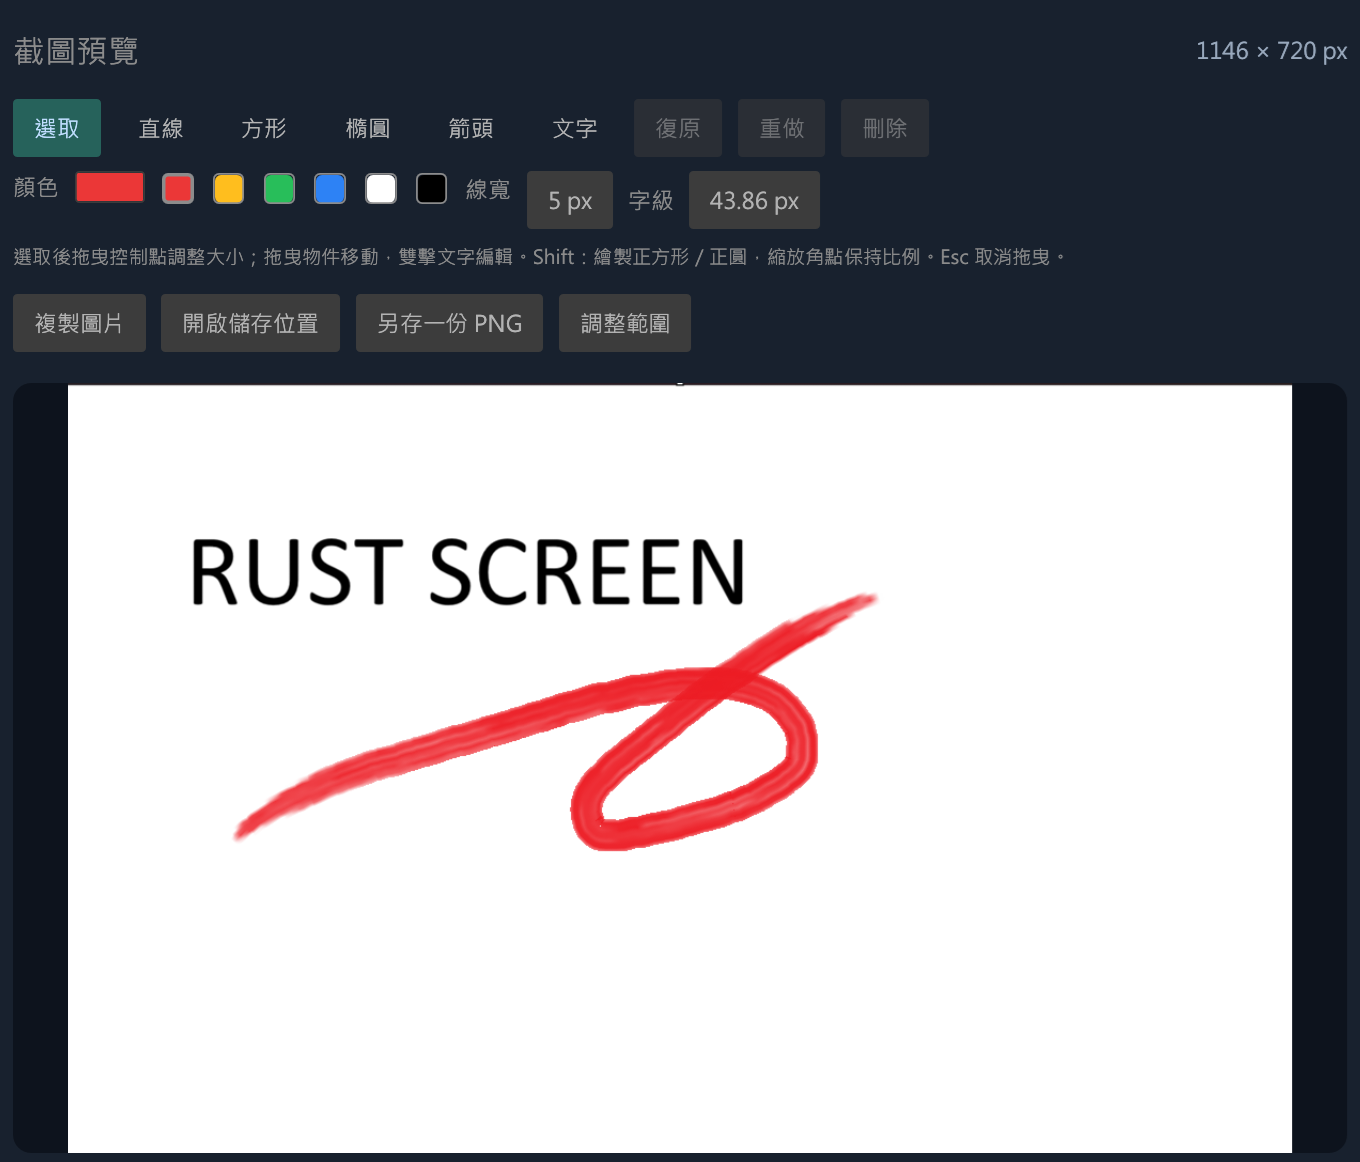
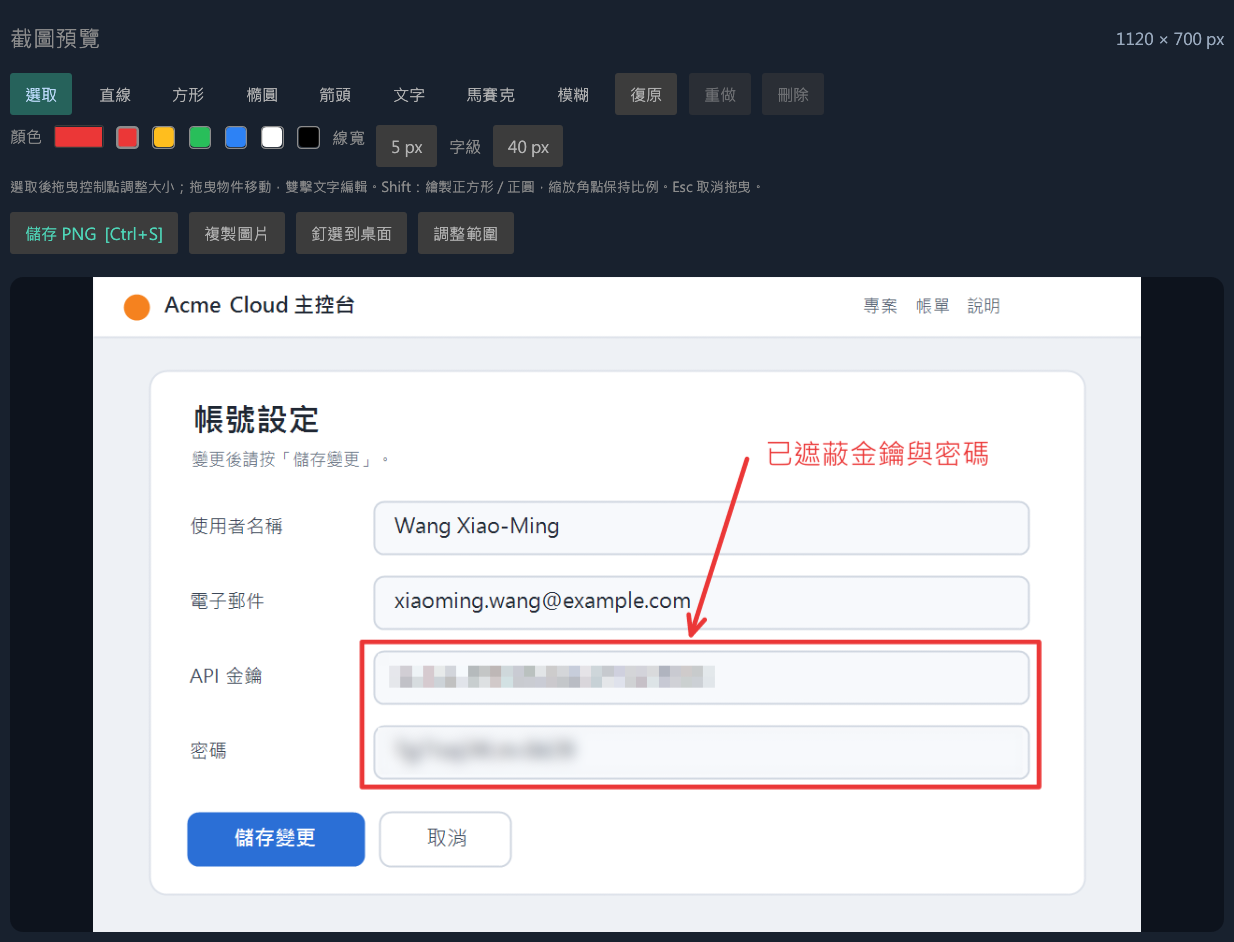
Show mosaic and blur in the annotation screenshots
Replace both annotation screenshots with 0.10.0-beta captures of a demo
settings page whose API key and password are masked with mosaic and
blur, and update the image size, alt text and caption.

diff --git a/index.html b/index.html
@@ -215,9 +215,9 @@
           </div>
 
           <figure class="shot shot--annotate" role="tabpanel" id="panel-real" aria-labelledby="tab-real">
-            <img class="shot__img shot__img--dark" src="assets/shot-annotate-dark.png" alt="Rust Screen 預覽區（深色主題）：標註工具列有選取、直線、方形、橢圓、箭頭、文字、復原、重做、刪除，以及色票、線寬、字級，下方有複製圖片、開啟儲存位置、另存一份 PNG、調整範圍按鈕" width="1360" height="1162" loading="lazy">
-            <img class="shot__img shot__img--light" src="assets/shot-annotate-light.png" alt="Rust Screen 預覽區（淺色主題）：標註工具列有選取、直線、方形、橢圓、箭頭、文字、復原、重做、刪除，以及色票、線寬、字級，下方有複製圖片、開啟儲存位置、另存一份 PNG、調整範圍按鈕" width="1360" height="1162" loading="lazy">
-            <figcaption>實際畫面 · 預覽上方的標註工具列與輸出按鈕</figcaption>
+            <img class="shot__img shot__img--dark" src="assets/shot-annotate-dark.png" alt="Rust Screen 預覽區（深色主題）：標註工具列有選取、直線、方形、橢圓、箭頭、文字、馬賽克、模糊、復原、重做、刪除，以及色票、線寬、字級，下方有儲存 PNG、複製圖片、釘選到桌面、調整範圍按鈕。示範截圖中的 API 金鑰與密碼已用馬賽克和模糊遮蔽，並加上紅框、箭頭與文字說明" width="1234" height="942" loading="lazy">
+            <img class="shot__img shot__img--light" src="assets/shot-annotate-light.png" alt="Rust Screen 預覽區（淺色主題）：標註工具列有選取、直線、方形、橢圓、箭頭、文字、馬賽克、模糊、復原、重做、刪除，以及色票、線寬、字級，下方有儲存 PNG、複製圖片、釘選到桌面、調整範圍按鈕。示範截圖中的 API 金鑰與密碼已用馬賽克和模糊遮蔽，並加上紅框、箭頭與文字說明" width="1234" height="942" loading="lazy">
+            <figcaption>實際畫面 · 標註工具列，以馬賽克與模糊遮蔽金鑰和密碼</figcaption>
           </figure>
 
           <div class="playground" role="tabpanel" id="panel-try" aria-labelledby="tab-try" hidden>
